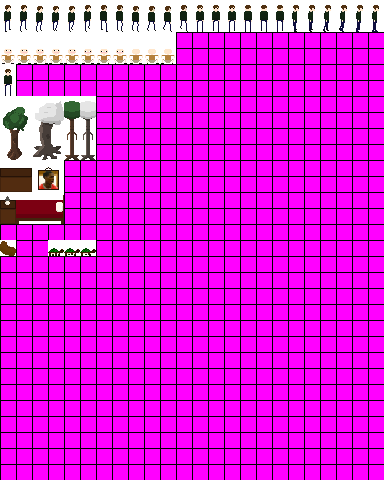
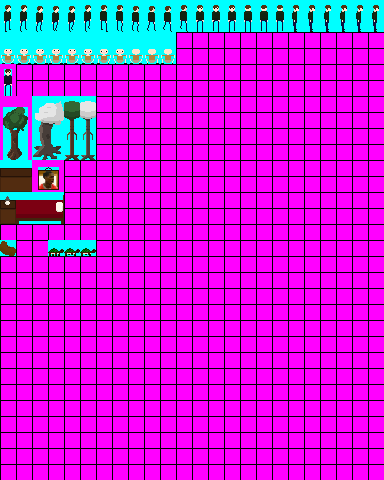
sprite sheet update

Changed region(s): [[0.0, 0.0, 1.0, 0.4688], [0.125, 0.5, 0.25, 0.5312], [0.0, 0.5, 0.0625, 0.5312]]

diff --git a/ToadEngine/src/toad/gfx/SpriteSheet.java b/ToadEngine/src/toad/gfx/SpriteSheet.java
@@ -1,6 +1,10 @@
 package toad.gfx;
 
+import java.awt.Color;
+import java.awt.Image;
 import java.awt.image.BufferedImage;
+import java.awt.image.ImageFilter;
+import java.awt.image.RGBImageFilter;
 import java.io.IOException;
 
 import javax.imageio.ImageIO;

diff --git a/ToadEngine/src/toad/gfx/Assets.java b/ToadEngine/src/toad/gfx/Assets.java
@@ -27,7 +27,7 @@ public class Assets {
 		case 1:
 			return entities.getImage(32, 96, 32, 64);
 		default:
-			return entities.getImage(0, 96, 32, 64);
+			return entities.getImage(3, 107, 25, 53);
 		}
 	}
 
